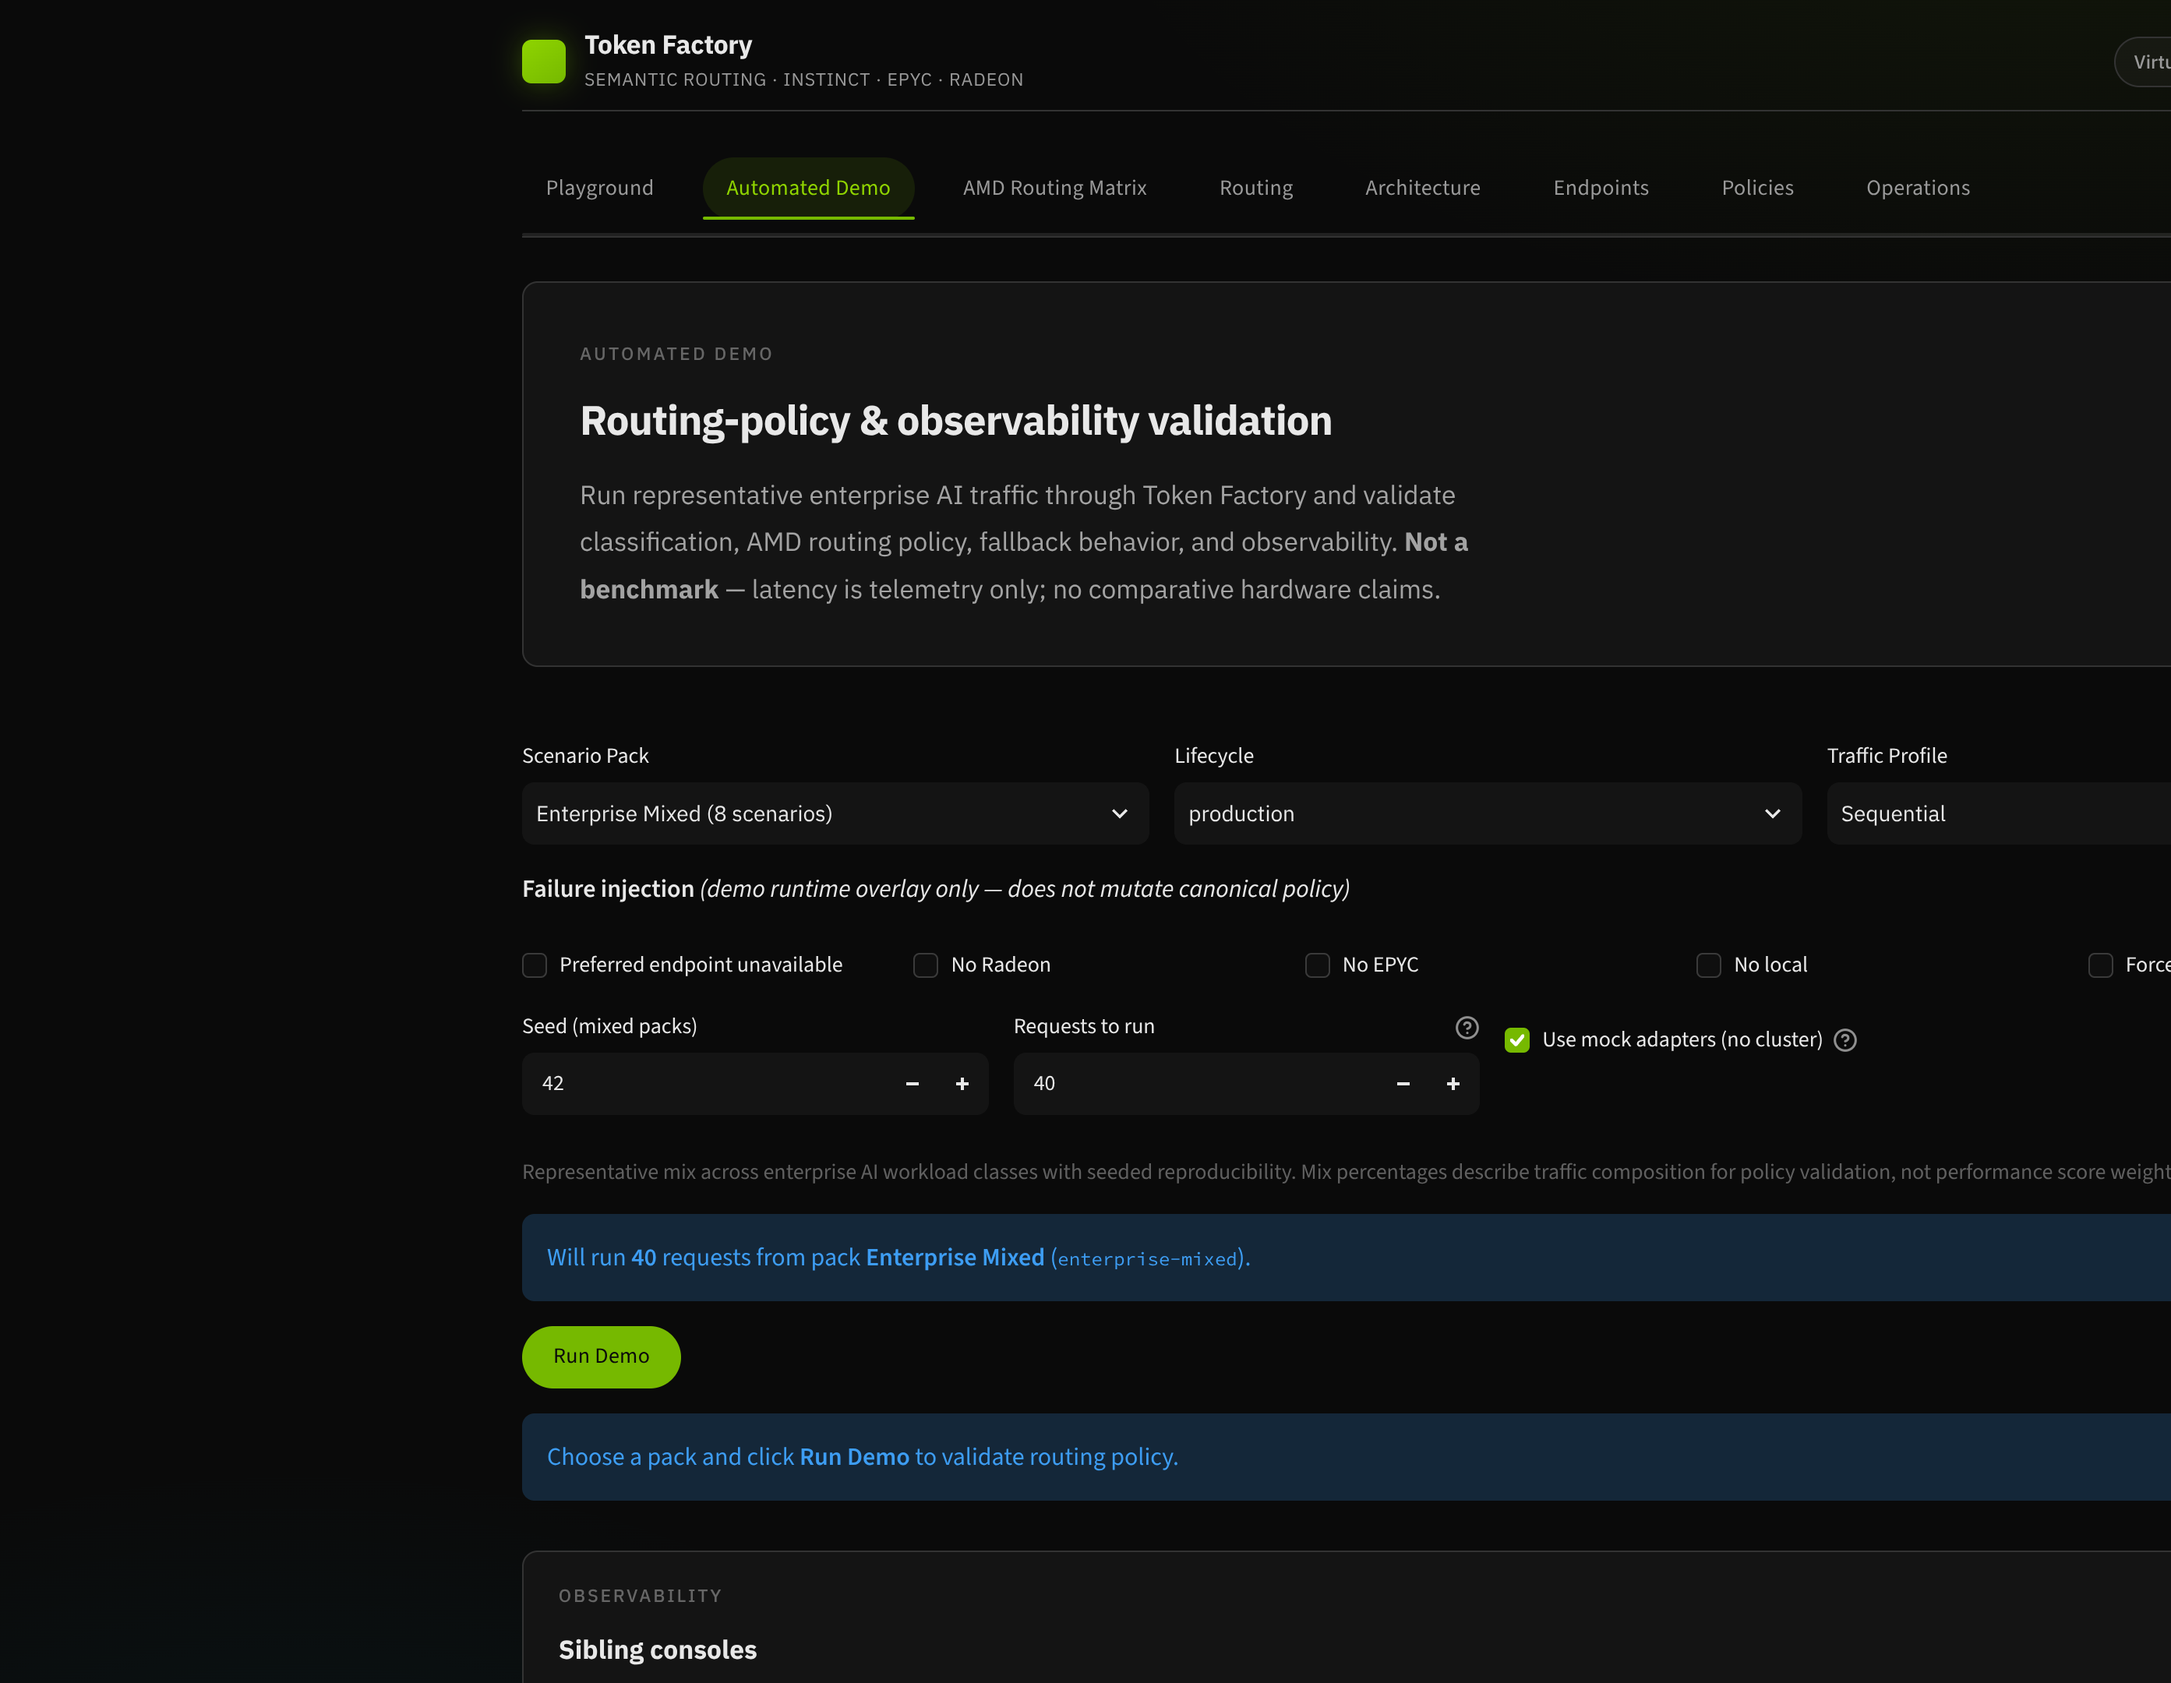
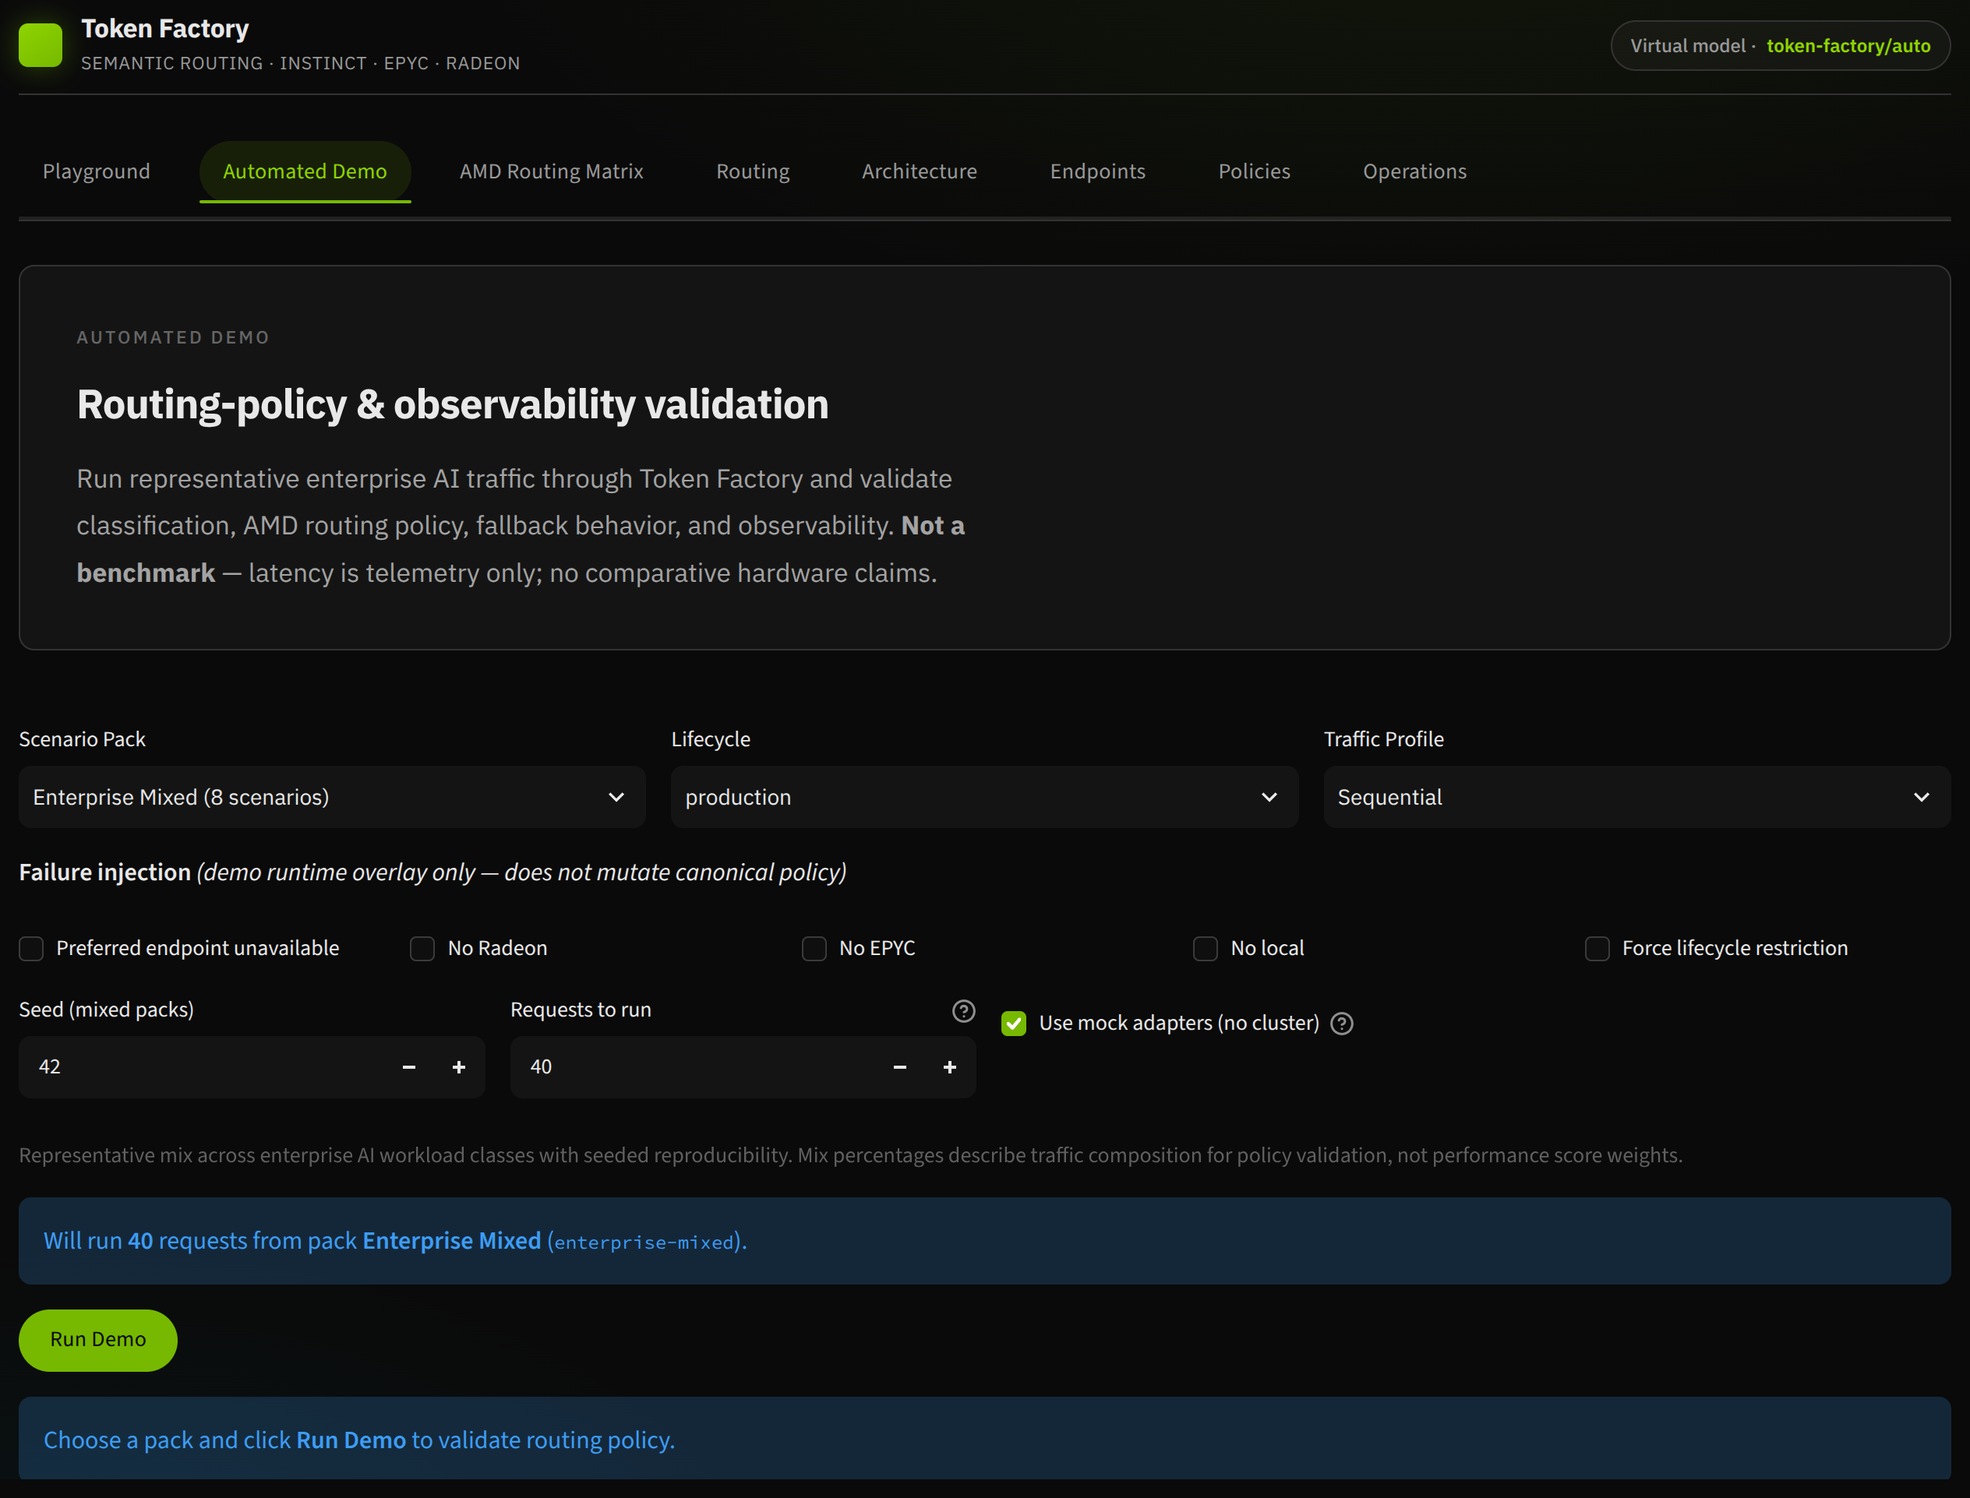
Recenter README screenshots and gallery layout.
Retake UI captures without the wide left gutter and center the README image gallery markup so the landing page reads balanced.

diff --git a/README.md b/README.md
@@ -12,10 +12,27 @@ Repository: https://github.com/Yu-amd/token-factory
 
 ## Screenshots
 
-| | |
-|:---:|:---:|
-| <img src="docs/images/routing-matrix.png" alt="AMD Routing Matrix" width="440"/><br/><em>AMD Routing Matrix — policy SHOULD RUN cards + portfolio catalog</em> | <img src="docs/images/automated-demo.png" alt="Automated Demo" width="440"/><br/><em>Automated Demo — scenario packs for routing-policy validation</em> |
-| <img src="docs/images/policies.png" alt="Policies explorer" width="440"/><br/><em>Policies — canonical AMD opinionated routing policy explorer</em> | <img src="docs/images/grafana-automated-demo.png" alt="Grafana Automated Demo dashboard" width="440"/><br/><em>Grafana — Token Factory Automated Demo observability</em> |
+<p align="center">
+  <img src="docs/images/routing-matrix.png" alt="AMD Routing Matrix" width="440"/>
+  &nbsp;&nbsp;
+  <img src="docs/images/automated-demo.png" alt="Automated Demo" width="440"/>
+</p>
+<p align="center">
+  <em>AMD Routing Matrix — policy SHOULD RUN cards + portfolio catalog</em>
+  &nbsp;&nbsp;·&nbsp;&nbsp;
+  <em>Automated Demo — scenario packs for routing-policy validation</em>
+</p>
+
+<p align="center">
+  <img src="docs/images/policies.png" alt="Policies explorer" width="440"/>
+  &nbsp;&nbsp;
+  <img src="docs/images/grafana-automated-demo.png" alt="Grafana Automated Demo dashboard" width="440"/>
+</p>
+<p align="center">
+  <em>Policies — canonical AMD opinionated routing policy explorer</em>
+  &nbsp;&nbsp;·&nbsp;&nbsp;
+  <em>Grafana — Token Factory Automated Demo observability</em>
+</p>
 
 ## Features
 
